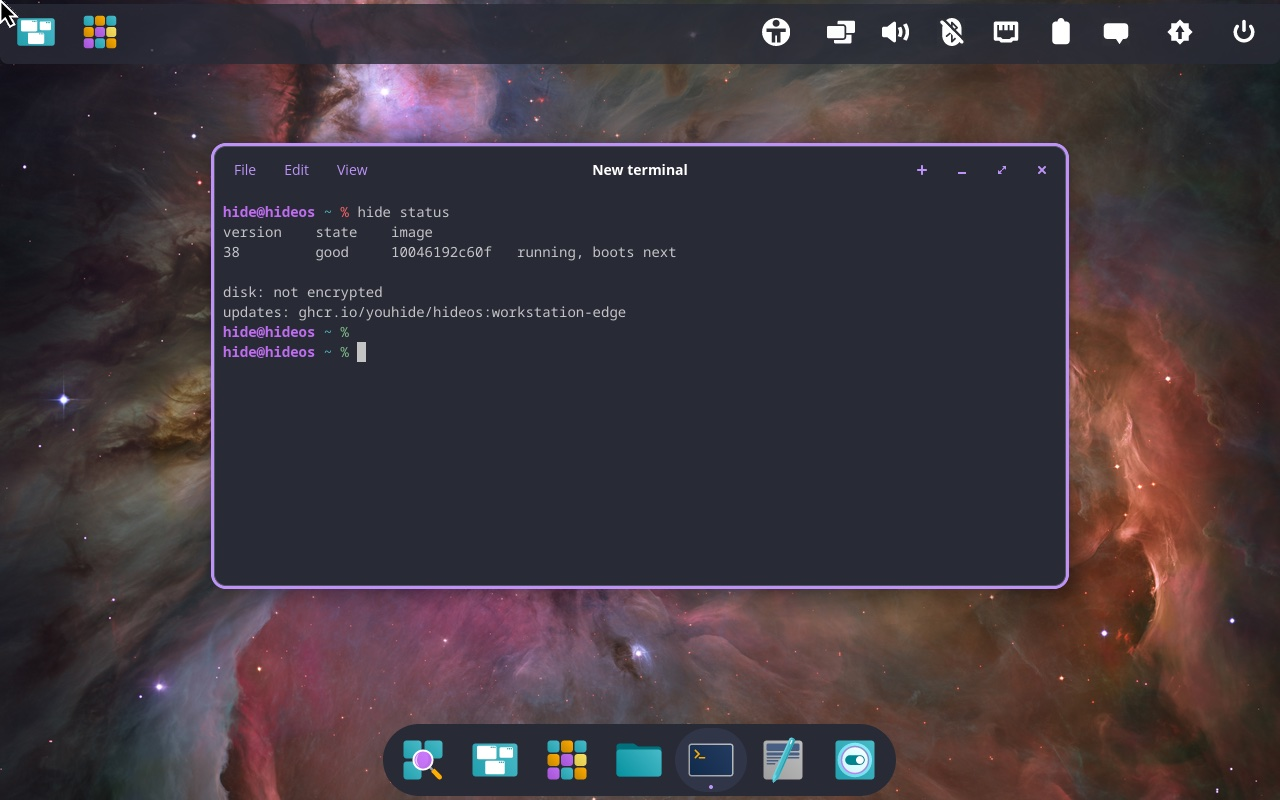
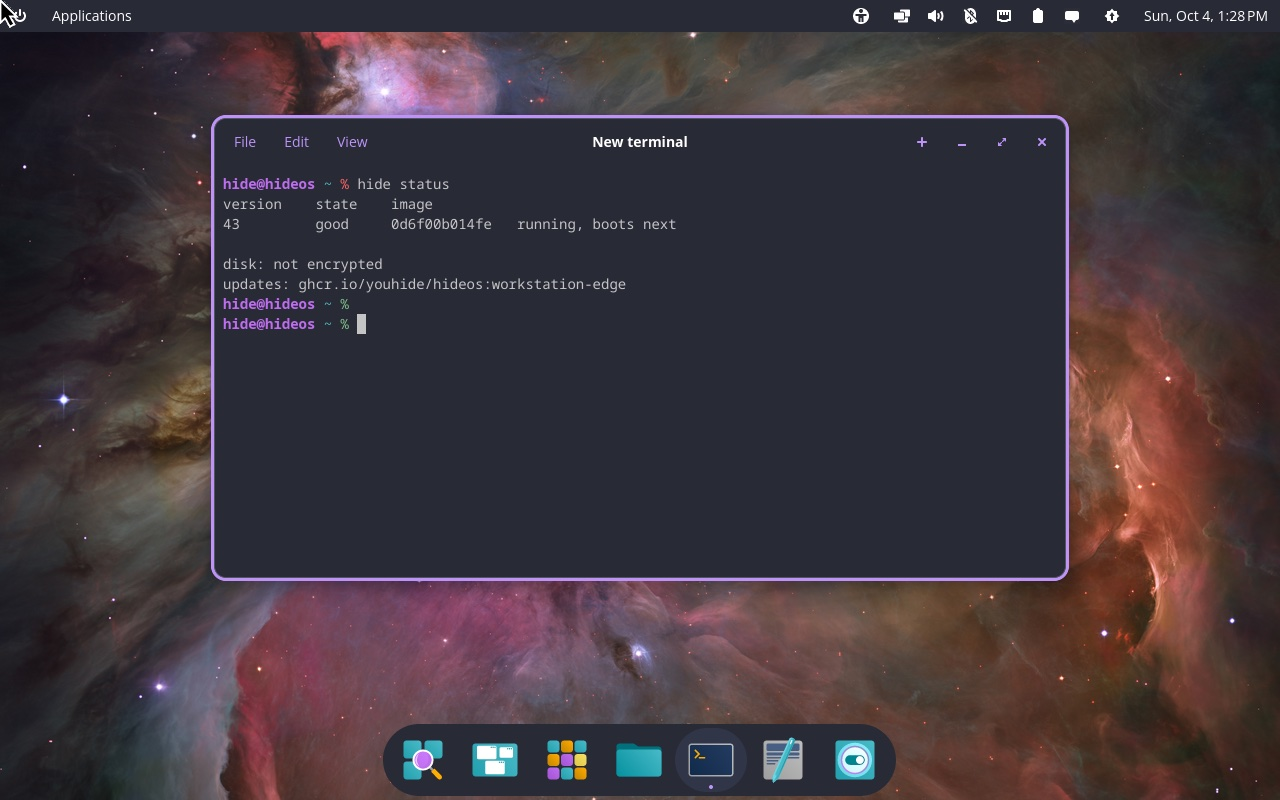
site: from 05ccac9

diff --git a/index.html b/index.html
@@ -197,10 +197,10 @@
         <span class="term__path">qemu-system-x86_64: hideOS workstation</span>
       </div>
       <div class="term__body">
-        <img src="desktop.jpg" width="1280" height="800" loading="lazy" alt="The COSMIC desktop on hideOS in the Dracula theme: a terminal with purple accents shows hide status — version 38, good, running, boots next; the disk not encrypted; updates from ghcr.io/youhide/hideos:workstation-edge — over the Orion nebula wallpaper, with the panel above and the dock below.">
+        <img src="desktop.jpg" width="1280" height="800" loading="lazy" alt="The COSMIC desktop on hideOS in the Dracula theme: a thin menu bar with the system menu and Applications on the left, status icons and Sun, Oct 4 with the time on the right; a terminal with purple accents shows hide status — good, running, boots next; the disk not encrypted; updates from ghcr.io/youhide/hideos:workstation-edge — over the Orion nebula wallpaper, with the dock below.">
       </div>
     </div>
-    <p class="shot__caption"># hide status, as the person: the deployment that runs, the disk, and where updates come from. the panel's arrow is the update applet: restart to update, once one is staged.</p>
+    <p class="shot__caption"># a menu bar laid out like a Mac's: the system menu on the left, the clock in the corner, the update applet beside it. hide status, as the person: the deployment that runs, the disk, and where updates come from.</p>
   </section>
 
   <hr class="rule">

diff --git a/wiki/Development-notes.html b/wiki/Development-notes.html
@@ -207,7 +207,7 @@ and runs <code>depmod</code> itself.</p>
 started it in. Signalling the cgroup then reached nothing, and the
 Workstation never powered off. oxinit now also signals the process it
 forked when it is outside its cgroup, and wakes for its shutdown deadline
-(youhide/oxinit#25).</p>
+(youhide/oxinit#25, released in v0.2.0).</p>
     </article>
   </main>
 </div>
@@ -217,7 +217,7 @@ forked when it is outside its cgroup, and wakes for its shutdown deadline
     <div class="footer__card">
       <div class="footer__accent"></div>
       <div class="footer__body">
-        <p># built from commit <code>2b16667</code>. source: <a href="https://github.com/youhide/hideOS/blob/main/docs/wiki/Development-notes.md">docs/wiki/Development-notes.md</a>.</p>
+        <p># built from commit <code>05ccac9</code>. source: <a href="https://github.com/youhide/hideOS/blob/main/docs/wiki/Development-notes.md">docs/wiki/Development-notes.md</a>.</p>
         <p># the wiki changes in the same commit as the work it describes; where it and <a href="https://github.com/youhide/hideOS/blob/main/ARCHITECTURE.md">ARCHITECTURE.md</a> disagree, ARCHITECTURE.md decides.</p>
         <p>hideOS is open source under MIT or Apache-2.0, by <a href="https://youhide.com.br">youhide</a>.</p>
       </div>

diff --git a/wiki/Install-and-recover.html b/wiki/Install-and-recover.html
@@ -180,7 +180,7 @@ will start. It never counts its attempts and is never the default. See
     <div class="footer__card">
       <div class="footer__accent"></div>
       <div class="footer__body">
-        <p># built from commit <code>2b16667</code>. source: <a href="https://github.com/youhide/hideOS/blob/main/docs/wiki/Install-and-recover.md">docs/wiki/Install-and-recover.md</a>.</p>
+        <p># built from commit <code>05ccac9</code>. source: <a href="https://github.com/youhide/hideOS/blob/main/docs/wiki/Install-and-recover.md">docs/wiki/Install-and-recover.md</a>.</p>
         <p># the wiki changes in the same commit as the work it describes; where it and <a href="https://github.com/youhide/hideOS/blob/main/ARCHITECTURE.md">ARCHITECTURE.md</a> disagree, ARCHITECTURE.md decides.</p>
         <p>hideOS is open source under MIT or Apache-2.0, by <a href="https://youhide.com.br">youhide</a>.</p>
       </div>

diff --git a/wiki/Updates-and-rollback.html b/wiki/Updates-and-rollback.html
@@ -221,7 +221,7 @@ shows the disk’s protection and the system extensions.</p>
     <div class="footer__card">
       <div class="footer__accent"></div>
       <div class="footer__body">
-        <p># built from commit <code>2b16667</code>. source: <a href="https://github.com/youhide/hideOS/blob/main/docs/wiki/Updates-and-rollback.md">docs/wiki/Updates-and-rollback.md</a>.</p>
+        <p># built from commit <code>05ccac9</code>. source: <a href="https://github.com/youhide/hideOS/blob/main/docs/wiki/Updates-and-rollback.md">docs/wiki/Updates-and-rollback.md</a>.</p>
         <p># the wiki changes in the same commit as the work it describes; where it and <a href="https://github.com/youhide/hideOS/blob/main/ARCHITECTURE.md">ARCHITECTURE.md</a> disagree, ARCHITECTURE.md decides.</p>
         <p>hideOS is open source under MIT or Apache-2.0, by <a href="https://youhide.com.br">youhide</a>.</p>
       </div>

diff --git a/wiki/System-extensions.html b/wiki/System-extensions.html
@@ -192,7 +192,7 @@ update: it has to be rebuilt for the new image and added again.</p>
     <div class="footer__card">
       <div class="footer__accent"></div>
       <div class="footer__body">
-        <p># built from commit <code>2b16667</code>. source: <a href="https://github.com/youhide/hideOS/blob/main/docs/wiki/System-extensions.md">docs/wiki/System-extensions.md</a>.</p>
+        <p># built from commit <code>05ccac9</code>. source: <a href="https://github.com/youhide/hideOS/blob/main/docs/wiki/System-extensions.md">docs/wiki/System-extensions.md</a>.</p>
         <p># the wiki changes in the same commit as the work it describes; where it and <a href="https://github.com/youhide/hideOS/blob/main/ARCHITECTURE.md">ARCHITECTURE.md</a> disagree, ARCHITECTURE.md decides.</p>
         <p>hideOS is open source under MIT or Apache-2.0, by <a href="https://youhide.com.br">youhide</a>.</p>
       </div>

diff --git a/wiki/Applications.html b/wiki/Applications.html
@@ -156,7 +156,7 @@ then, the hideOS image has no compiler, by design: images ship without one.</p>
     <div class="footer__card">
       <div class="footer__accent"></div>
       <div class="footer__body">
-        <p># built from commit <code>2b16667</code>. source: <a href="https://github.com/youhide/hideOS/blob/main/docs/wiki/Applications.md">docs/wiki/Applications.md</a>.</p>
+        <p># built from commit <code>05ccac9</code>. source: <a href="https://github.com/youhide/hideOS/blob/main/docs/wiki/Applications.md">docs/wiki/Applications.md</a>.</p>
         <p># the wiki changes in the same commit as the work it describes; where it and <a href="https://github.com/youhide/hideOS/blob/main/ARCHITECTURE.md">ARCHITECTURE.md</a> disagree, ARCHITECTURE.md decides.</p>
         <p>hideOS is open source under MIT or Apache-2.0, by <a href="https://youhide.com.br">youhide</a>.</p>
       </div>

diff --git a/wiki/Disk-and-encryption.html b/wiki/Disk-and-encryption.html
@@ -198,7 +198,7 @@ first would lose its writes.</li>
     <div class="footer__card">
       <div class="footer__accent"></div>
       <div class="footer__body">
-        <p># built from commit <code>2b16667</code>. source: <a href="https://github.com/youhide/hideOS/blob/main/docs/wiki/Disk-and-encryption.md">docs/wiki/Disk-and-encryption.md</a>.</p>
+        <p># built from commit <code>05ccac9</code>. source: <a href="https://github.com/youhide/hideOS/blob/main/docs/wiki/Disk-and-encryption.md">docs/wiki/Disk-and-encryption.md</a>.</p>
         <p># the wiki changes in the same commit as the work it describes; where it and <a href="https://github.com/youhide/hideOS/blob/main/ARCHITECTURE.md">ARCHITECTURE.md</a> disagree, ARCHITECTURE.md decides.</p>
         <p>hideOS is open source under MIT or Apache-2.0, by <a href="https://youhide.com.br">youhide</a>.</p>
       </div>

diff --git a/wiki/Testing.html b/wiki/Testing.html
@@ -242,7 +242,7 @@ menu. <code>--display</code> sets the screen QEMU announces through EDID.</li>
     <div class="footer__card">
       <div class="footer__accent"></div>
       <div class="footer__body">
-        <p># built from commit <code>2b16667</code>. source: <a href="https://github.com/youhide/hideOS/blob/main/docs/wiki/Testing.md">docs/wiki/Testing.md</a>.</p>
+        <p># built from commit <code>05ccac9</code>. source: <a href="https://github.com/youhide/hideOS/blob/main/docs/wiki/Testing.md">docs/wiki/Testing.md</a>.</p>
         <p># the wiki changes in the same commit as the work it describes; where it and <a href="https://github.com/youhide/hideOS/blob/main/ARCHITECTURE.md">ARCHITECTURE.md</a> disagree, ARCHITECTURE.md decides.</p>
         <p>hideOS is open source under MIT or Apache-2.0, by <a href="https://youhide.com.br">youhide</a>.</p>
       </div>

diff --git a/wiki/hideforge.html b/wiki/hideforge.html
@@ -227,7 +227,7 @@ writes the composefs payload, the OCI image and the signed UKI; see
     <div class="footer__card">
       <div class="footer__accent"></div>
       <div class="footer__body">
-        <p># built from commit <code>2b16667</code>. source: <a href="https://github.com/youhide/hideOS/blob/main/docs/wiki/hideforge.md">docs/wiki/hideforge.md</a>.</p>
+        <p># built from commit <code>05ccac9</code>. source: <a href="https://github.com/youhide/hideOS/blob/main/docs/wiki/hideforge.md">docs/wiki/hideforge.md</a>.</p>
         <p># the wiki changes in the same commit as the work it describes; where it and <a href="https://github.com/youhide/hideOS/blob/main/ARCHITECTURE.md">ARCHITECTURE.md</a> disagree, ARCHITECTURE.md decides.</p>
         <p>hideOS is open source under MIT or Apache-2.0, by <a href="https://youhide.com.br">youhide</a>.</p>
       </div>

diff --git a/wiki/Boot-chain.html b/wiki/Boot-chain.html
@@ -224,7 +224,7 @@ failed attempt.</p>
     <div class="footer__card">
       <div class="footer__accent"></div>
       <div class="footer__body">
-        <p># built from commit <code>2b16667</code>. source: <a href="https://github.com/youhide/hideOS/blob/main/docs/wiki/Boot-chain.md">docs/wiki/Boot-chain.md</a>.</p>
+        <p># built from commit <code>05ccac9</code>. source: <a href="https://github.com/youhide/hideOS/blob/main/docs/wiki/Boot-chain.md">docs/wiki/Boot-chain.md</a>.</p>
         <p># the wiki changes in the same commit as the work it describes; where it and <a href="https://github.com/youhide/hideOS/blob/main/ARCHITECTURE.md">ARCHITECTURE.md</a> disagree, ARCHITECTURE.md decides.</p>
         <p>hideOS is open source under MIT or Apache-2.0, by <a href="https://youhide.com.br">youhide</a>.</p>
       </div>

diff --git a/wiki/Building.html b/wiki/Building.html
@@ -221,7 +221,7 @@ listed at the top of
     <div class="footer__card">
       <div class="footer__accent"></div>
       <div class="footer__body">
-        <p># built from commit <code>2b16667</code>. source: <a href="https://github.com/youhide/hideOS/blob/main/docs/wiki/Building.md">docs/wiki/Building.md</a>.</p>
+        <p># built from commit <code>05ccac9</code>. source: <a href="https://github.com/youhide/hideOS/blob/main/docs/wiki/Building.md">docs/wiki/Building.md</a>.</p>
         <p># the wiki changes in the same commit as the work it describes; where it and <a href="https://github.com/youhide/hideOS/blob/main/ARCHITECTURE.md">ARCHITECTURE.md</a> disagree, ARCHITECTURE.md decides.</p>
         <p>hideOS is open source under MIT or Apache-2.0, by <a href="https://youhide.com.br">youhide</a>.</p>
       </div>

diff --git a/wiki/index.html b/wiki/index.html
@@ -159,7 +159,7 @@ conventions.</p>
     <div class="footer__card">
       <div class="footer__accent"></div>
       <div class="footer__body">
-        <p># built from commit <code>2b16667</code>. source: <a href="https://github.com/youhide/hideOS/blob/main/docs/wiki/Home.md">docs/wiki/Home.md</a>.</p>
+        <p># built from commit <code>05ccac9</code>. source: <a href="https://github.com/youhide/hideOS/blob/main/docs/wiki/Home.md">docs/wiki/Home.md</a>.</p>
         <p># the wiki changes in the same commit as the work it describes; where it and <a href="https://github.com/youhide/hideOS/blob/main/ARCHITECTURE.md">ARCHITECTURE.md</a> disagree, ARCHITECTURE.md decides.</p>
         <p>hideOS is open source under MIT or Apache-2.0, by <a href="https://youhide.com.br">youhide</a>.</p>
       </div>
